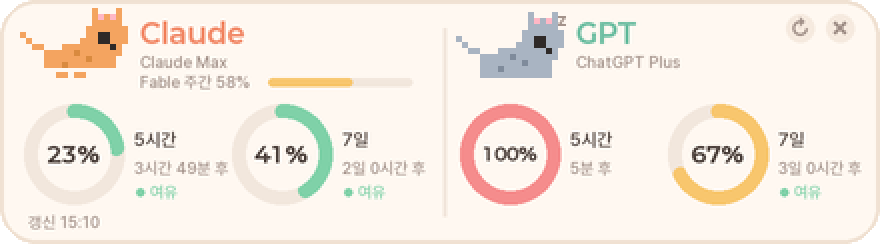
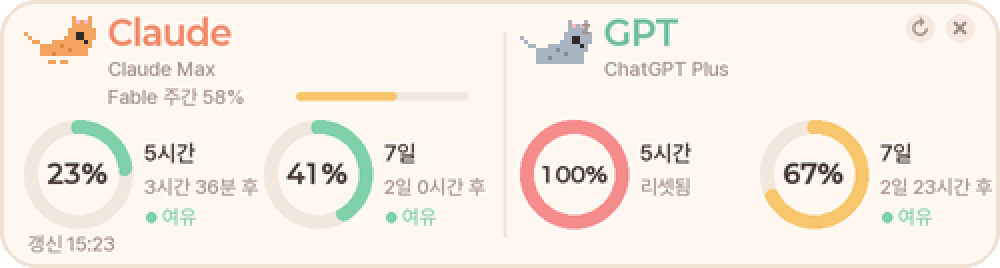
글씨 확대 (제목 17, 숫자 13, 본문 11/10), 위젯 고양이 축소, 카드 500x134로 재배치, 팝업 본문 12

diff --git a/usage_widget.py b/usage_widget.py
@@ -84,9 +84,9 @@ WINDOWS = [("primary", "5시간"), ("secondary", "7일")]
 
 # 레이아웃 (논리 px). 카드는 SS배 슈퍼샘플링 후 축소, 고양이는 원본 도트.
 SS = 2
-W, H = 440, 122
+W, H = 500, 134
 RADIUS = 18
-GAUGE = 50
+GAUGE = 54
 RING_W = 7
 
 # ---------------------------------------------------------------- 픽셀 고양이 (18x12, 옆모습 달리기)
@@ -112,7 +112,8 @@ CAT_LEGS = [
 CAT_BOUNCE = [0, -1, -2, -1]   # 프레임별 몸 높이(도트 단위)
 CAT_SLEEP_BODY = [r.replace("e", "-") for r in CAT_BODY]
 CAT_SLEEP_LEGS = ["....bbbbbbbbbbbb..", ".................."]
-CAT_PX = 3  # 픽셀 1칸 = 3px (논리)
+CAT_PX = 2  # 위젯 고양이 도트 크기 (논리 px)
+CAT_PX_POPUP = 3  # 알림 팝업 고양이 도트 크기
 
 
 # ---------------------------------------------------------------- 유틸
@@ -288,7 +289,7 @@ def clamp_to_screen(x, y):
 
 
 # ---------------------------------------------------------------- 알림 팝업 (위젯과 같은 디자인)
-POP_W, POP_H, POP_SEC = 300, 84, 8
+POP_W, POP_H, POP_SEC = 340, 92, 8
 _popups = []   # 떠 있는 팝업 (아래에서부터 쌓기)
 
 
@@ -336,23 +337,23 @@ class Popup(tk.Toplevel):
         d.rounded_rectangle((0, 0, POP_W * S - 1, POP_H * S - 1), radius=16 * S, outline=CARD_EDGE, width=2 * S)
         d.rounded_rectangle((10 * S, 14 * S, 14 * S, (POP_H - 14) * S), radius=2 * S, fill=self.color)  # 강조 바
         w = self.master_widget
-        d.text((78 * S, 14 * S), "AI 사용량", font=w.f_tiny, fill=INK_SOFT)
+        d.text((84 * S, 12 * S), "AI 사용량", font=w.f_tiny, fill=INK_SOFT)
         # 본문: 두 줄까지 접기
         words, lines, cur = self.text.split(" "), [], ""
         for wd in words:
             trial = (cur + " " + wd).strip()
-            if d.textlength(trial, font=w.f_small) > (POP_W - 92) * S and cur:
+            if d.textlength(trial, font=w.f_pop) > (POP_W - 98) * S and cur:
                 lines.append(cur); cur = wd
             else:
                 cur = trial
         lines.append(cur)
         for i, ln in enumerate(lines[:2]):
-            d.text((78 * S, (30 + i * 16) * S), ln, font=w.f_small, fill=INK)
+            d.text((84 * S, (32 + i * 20) * S), ln, font=w.f_pop, fill=INK)
         out = img.resize((POP_W, POP_H), Image.LANCZOS)
         mask = Image.new("L", (POP_W, POP_H), 0)
         ImageDraw.Draw(mask).rounded_rectangle((0, 0, POP_W - 1, POP_H - 1), radius=16, fill=255)
         out = Image.composite(out, Image.new("RGB", (POP_W, POP_H), CHROMA), mask)
-        w._cat(ImageDraw.Draw(out), 20, 24, self._frame, self.body, self.mark, False)
+        w._cat(ImageDraw.Draw(out), 22, 28, self._frame, self.body, self.mark, False, px=CAT_PX_POPUP)
         return out
 
     def _anim(self):
@@ -401,11 +402,12 @@ class Widget(tk.Tk):
         self._anim = {k: {"frame": 0, "next": 0.0} for k, *_ in PROVIDERS}
         self._buttons = {}
 
-        self.f_title = font("Paperlogy-7Bold.ttf", 14)
-        self.f_num = font("Paperlogy-7Bold.ttf", 11)
-        self.f_num_s = font("Paperlogy-7Bold.ttf", 9)
-        self.f_small = font("Pretendard-Medium.ttf", 9)
-        self.f_tiny = font("Pretendard-Medium.ttf", 8)
+        self.f_title = font("Paperlogy-7Bold.ttf", 17)
+        self.f_num = font("Paperlogy-7Bold.ttf", 13)
+        self.f_num_s = font("Paperlogy-7Bold.ttf", 11)
+        self.f_small = font("Pretendard-SemiBold.ttf", 11)
+        self.f_tiny = font("Pretendard-Medium.ttf", 10)
+        self.f_pop = font("Pretendard-SemiBold.ttf", 12)
         self.f_btn = font("Pretendard-Bold.ttf", 11)
         self.f_z = font("Pretendard-Bold.ttf", 9, scale=1)
 
@@ -737,7 +739,7 @@ class Widget(tk.Tk):
             ox = 12 + i * (half - 2)
             pct5 = ((self.usage.get(pkey) or {}).get("primary") or {}).get("used_percent")
             sleeping = pct5 is None or pct5 >= 100
-            self._cat(d, ox - 2, 6, self._anim[pkey]["frame"], body, mark, sleeping)
+            self._cat(d, ox, 10, self._anim[pkey]["frame"], body, mark, sleeping)
         if os.environ.get("WIDGET_SNAP"):
             out.save(os.environ["WIDGET_SNAP"])
         self._photo = ImageTk.PhotoImage(out)
@@ -757,16 +759,16 @@ class Widget(tk.Tk):
             u = self.usage.get(key) or {}
             stale = self._is_stale(key)
 
-            d.text(((ox + 58) * S, 8 * S), name, font=self.f_title, fill=accent)
+            d.text(((ox + 42) * S, 6 * S), name, font=self.f_title, fill=accent)
             sub = "오래된 값 (1시간 이상 조회 실패)" if stale and u else (u.get("login_method") or "")
-            d.text(((ox + 58) * S, 26 * S), sub, font=self.f_tiny, fill=C_WARN if stale and u else INK_SOFT)
+            d.text(((ox + 42) * S, 28 * S), sub, font=self.f_tiny, fill=C_WARN if stale and u else INK_SOFT)
 
             # 추가 창 (Claude: Fable 전용 주간) - 작은 막대
             fb = extra_window(u, "fable")
             if fb.get("used_percent") is not None:
                 fp = fb["used_percent"]
-                bx0, bx1, by = ox + 122, ox + half - 26, 39
-                d.text(((ox + 58) * S, (by - 3) * S), f"Fable 주간 {int(fp)}%", font=self.f_tiny, fill=INK_SOFT)
+                bx0, bx1, by = ox + 136, ox + half - 28, 46
+                d.text(((ox + 42) * S, (by - 4) * S), f"Fable 주간 {int(fp)}%", font=self.f_tiny, fill=INK_SOFT)
                 d.rounded_rectangle((bx0 * S, by * S, bx1 * S, (by + 4) * S), radius=2 * S, fill=TRACK)
                 fx = bx0 + (bx1 - bx0) * min(fp, 100) / 100
                 if fx > bx0 + 2:
@@ -775,20 +777,20 @@ class Widget(tk.Tk):
 
             for j, (wkey, wname) in enumerate(WINDOWS):
                 win = u.get(wkey) or {}
-                gx, gy = ox + j * 104, 52
+                gx, gy = ox + j * 120, 60
                 self._gauge(d, gx, gy, win.get("used_percent"), stale)
-                d.text(((gx + GAUGE + 5) * S, (gy + 12) * S), wname, font=self.f_small, fill=INK)
-                d.text(((gx + GAUGE + 5) * S, (gy + 27) * S), fmt_remaining(win.get("resets_at")),
+                d.text(((gx + GAUGE + 6) * S, (gy + 10) * S), wname, font=self.f_small, fill=INK)
+                d.text(((gx + GAUGE + 6) * S, (gy + 27) * S), fmt_remaining(win.get("resets_at")),
                        font=self.f_tiny, fill=INK_SOFT)
                 if self.state.get("pace", False) and not stale:
                     hint = pace_hint(u, wkey)
                     if hint:
-                        d.ellipse(((gx + GAUGE + 6) * S, (gy + 42) * S, (gx + GAUGE + 10) * S, (gy + 46) * S), fill=hint[1])
-                        d.text(((gx + GAUGE + 13) * S, (gy + 39) * S), hint[0], font=self.f_tiny, fill=hint[1])
+                        d.ellipse(((gx + GAUGE + 7) * S, (gy + 46) * S, (gx + GAUGE + 12) * S, (gy + 51) * S), fill=hint[1])
+                        d.text(((gx + GAUGE + 15) * S, (gy + 42) * S), hint[0], font=self.f_tiny, fill=hint[1])
 
             if i == 0:
                 lx = (half + 2) * S
-                d.line((lx, 14 * S, lx, (H - 14) * S), fill=TRACK, width=2 * S)
+                d.line((lx, 16 * S, lx, (H - 16) * S), fill=TRACK, width=2 * S)
 
         # 상태 / 알림 배너 (우하단)
         msg, col, is_banner = self._status()
@@ -841,8 +843,7 @@ class Widget(tk.Tk):
         f = self.f_num_s if len(txt) >= 4 else self.f_num
         d.text((cx, cy), txt, font=f, fill=INK_SOFT if stale else INK, anchor="mm")
 
-    def _cat(self, d, x, y, fi, body, mark, sleeping):
-        px = CAT_PX
+    def _cat(self, d, x, y, fi, body, mark, sleeping, px=CAT_PX):
         colors = {"b": body, "s": mark, "e": "#2f2a28", "p": "#ffb7c5", "m": "#2f2a28", "-": "#2f2a28"}
         if sleeping:
             rows, bounce = CAT_SLEEP_BODY + CAT_SLEEP_LEGS, 0
@@ -857,7 +858,7 @@ class Widget(tk.Tk):
                     d.rectangle((x0, y0, x0 + px - 1, y0 + px - 1), fill=col)
         if sleeping:
             phase = (self._ticks // 6) % 3
-            d.text((x + 50, y - 2 + phase * 2), "z", font=self.f_z, fill=INK_SOFT)
+            d.text((x + 17 * px - 4, y - 2 + phase * 2), "z", font=self.f_z, fill=INK_SOFT)
 
 
 if __name__ == "__main__":
